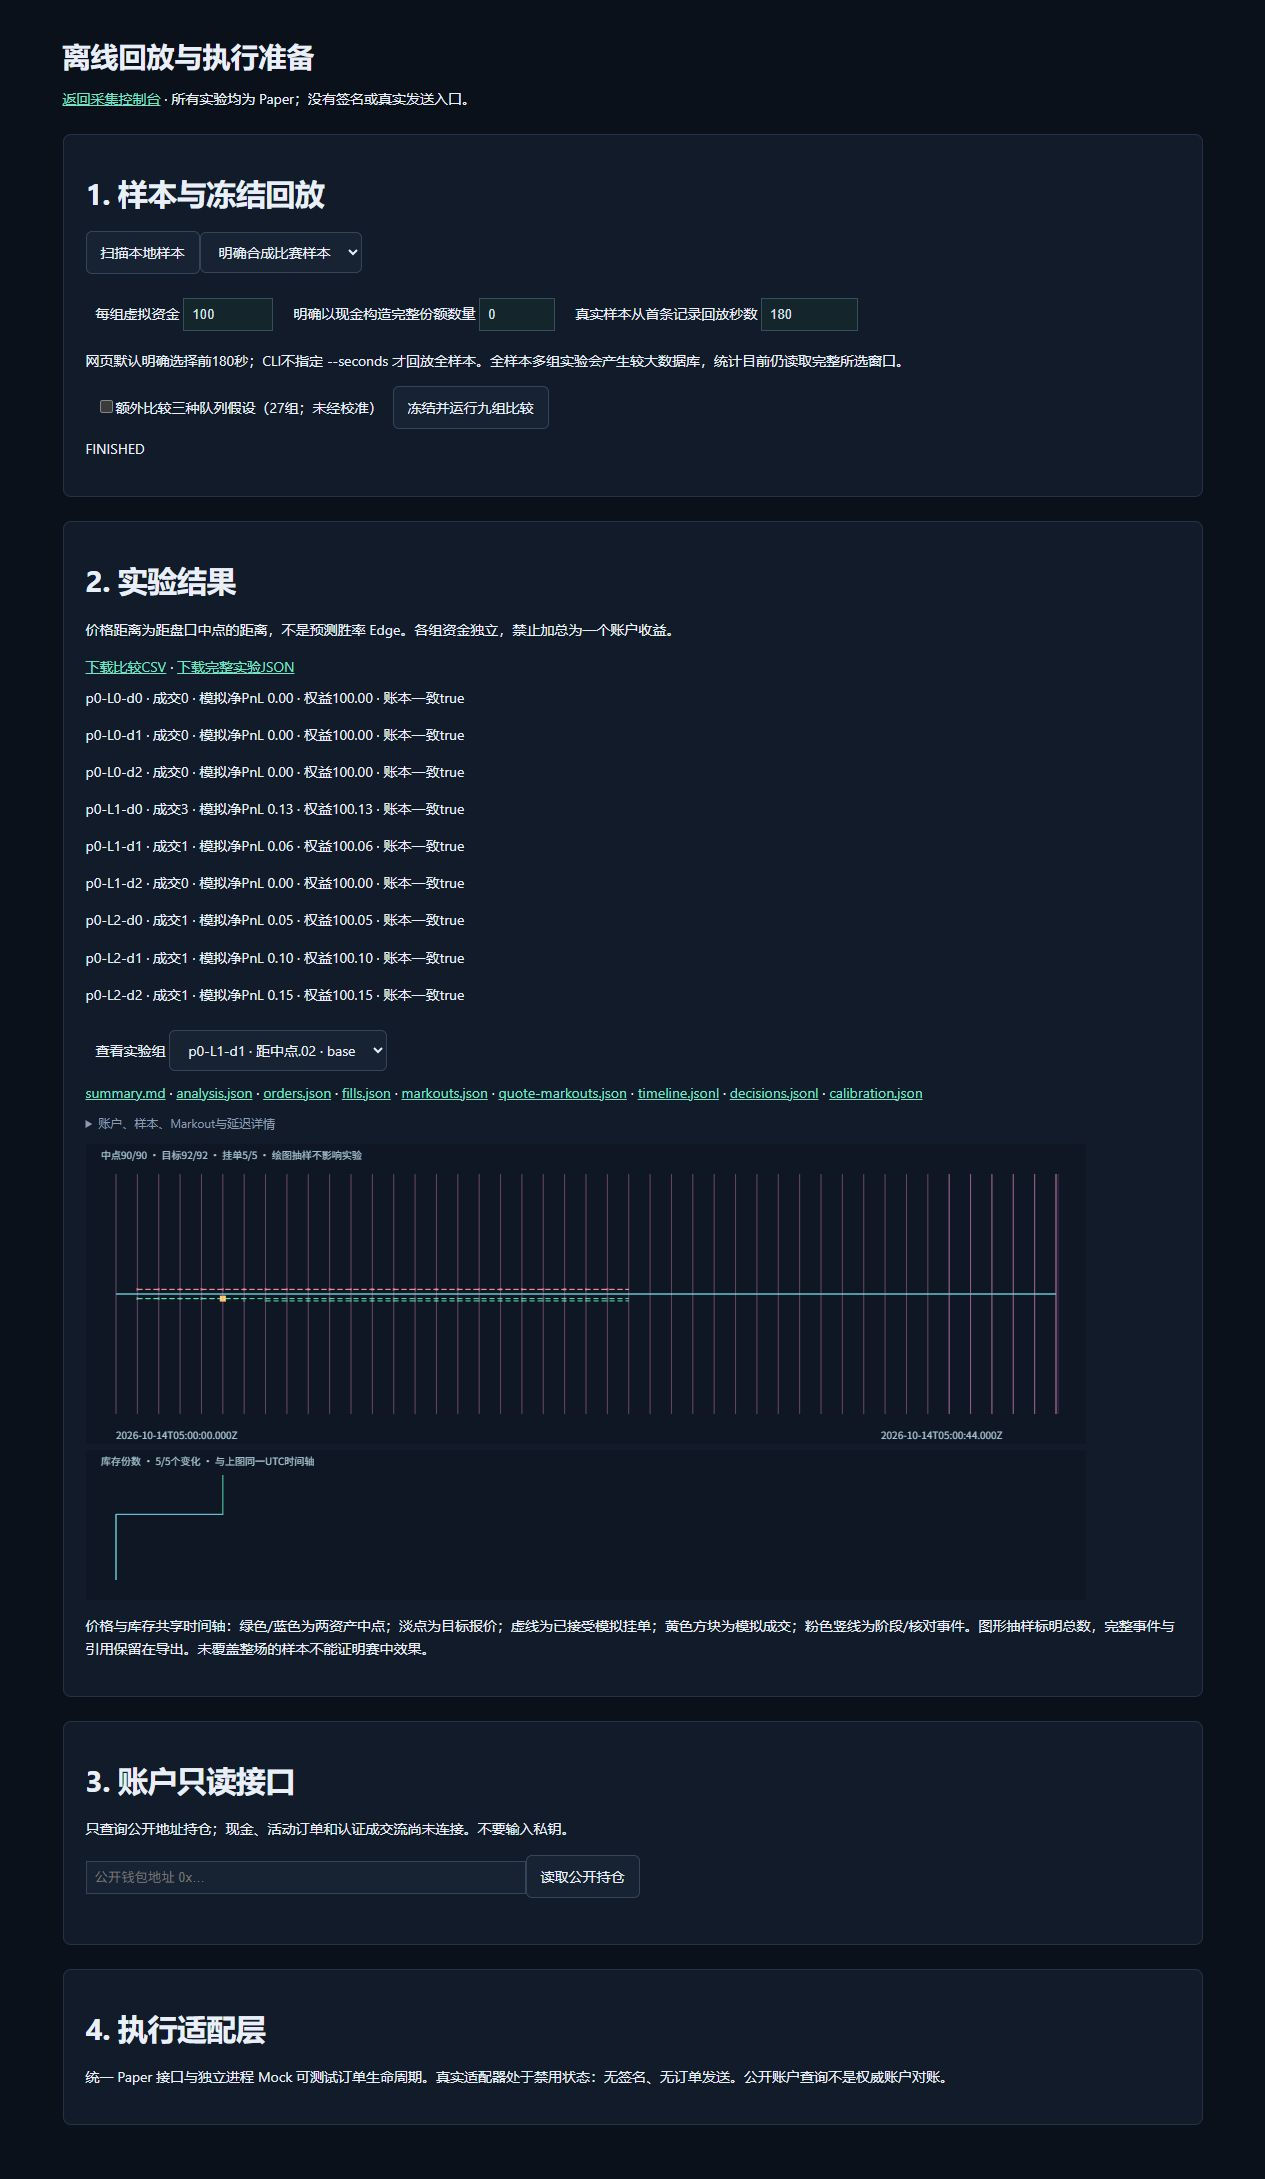
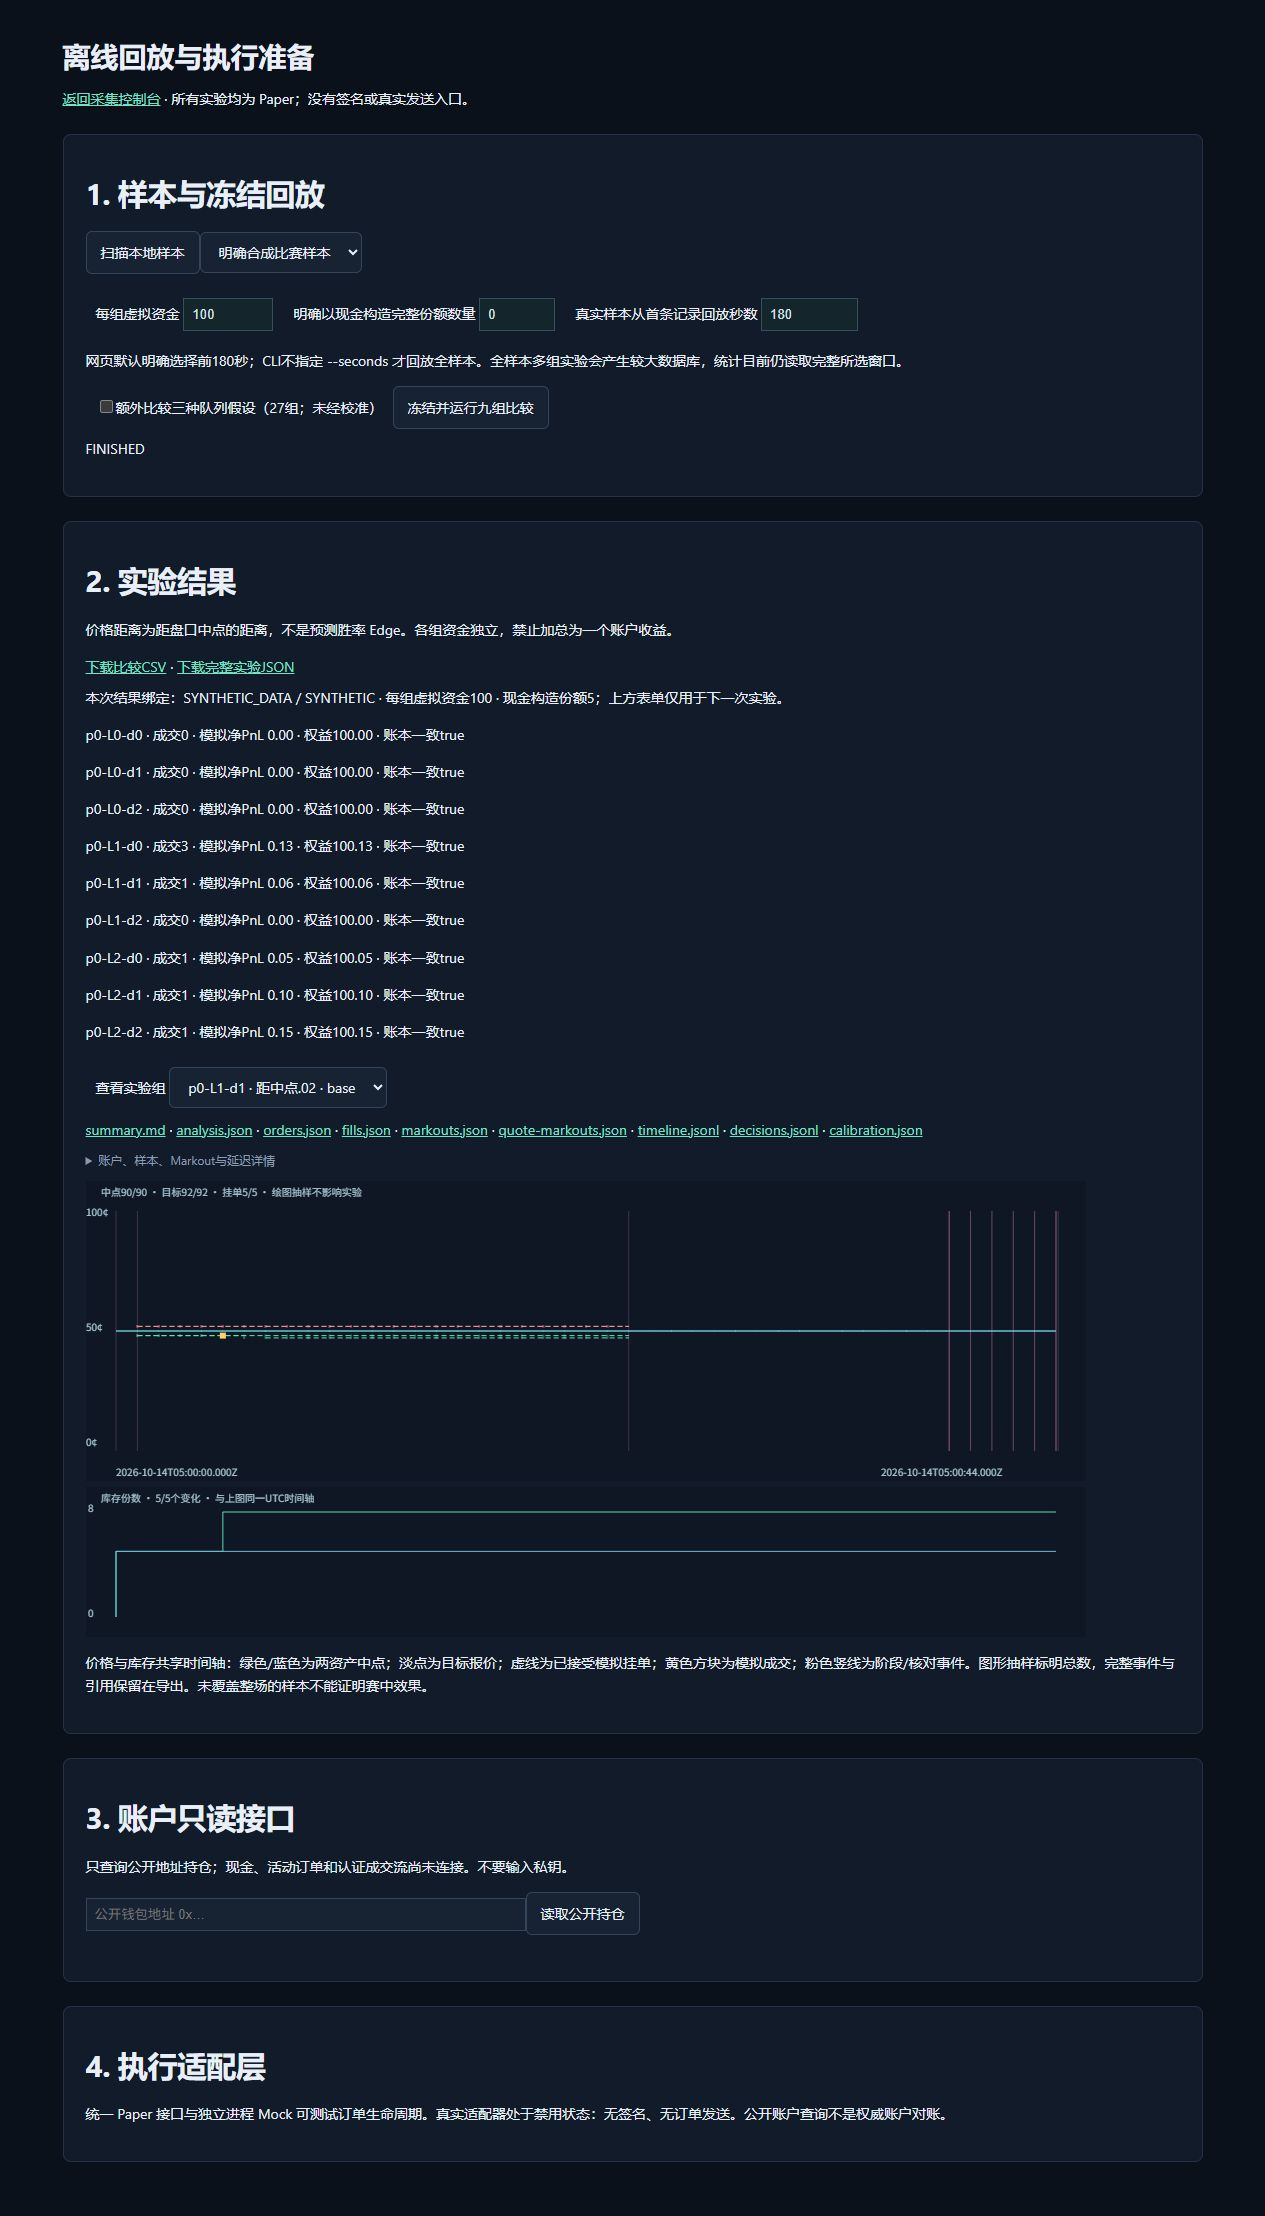
Record clean-commit offline replay and browser acceptance evidence

diff --git a/OFFLINE_RESEARCH_ACCEPTANCE.md b/OFFLINE_RESEARCH_ACCEPTANCE.md
@@ -22,6 +22,8 @@
 
 实际独立Mock命令：5个模拟订单、1笔模拟成交，账本一致，真实提交0。实际合成27组队列实验共用一个tape。真实赛前20秒窗口（Celtics/76ers旧记录）1组、0模拟成交、账本一致，保留PRE_GAME，不冒称赛中或完整比赛。精简运行证据见research-runs.json；完整数据库和输入留本机data，不提交大数据库。
 
+最终27组与真实片段演练绑定4af7196502d12a6ff08bc34fffdbe59a85b69da6干净工作区；最终HTTP九组也绑定该提交，working_tree_dirty=false。后续提交只更新验收证据和本文。见[evidence/offline-research/research-runs.json](evidence/offline-research/research-runs.json)。
+
 本机8765 HTTP脚本验证九组、封存tape相同、所有账本一致、采集会话未改变，CSV及各明细导出可读；见http-acceptance.json。浏览器实际完成样本扫描、九组合成运行、选择L1实验、图表与链接检查，并保存browser-acceptance.jpg。本轮浏览器验证通过，不代表旧报告所缺的四小时浏览器负载已补齐。
 
 开发失败保留：initial-failure.txt（Windows测试子进程退出留下SQLite占用，已改为Mock正常关闭）；rpc-test-expectation-failure.txt（重复RPC返回原收据True，测试原先误期待False；改验库存/累计成交不重复，未删除幂等检查）。最初两次前端文本编辑的Shell引号/美元表达式错误未成功改文件，改用apply_patch完成，最终语法检查通过。
